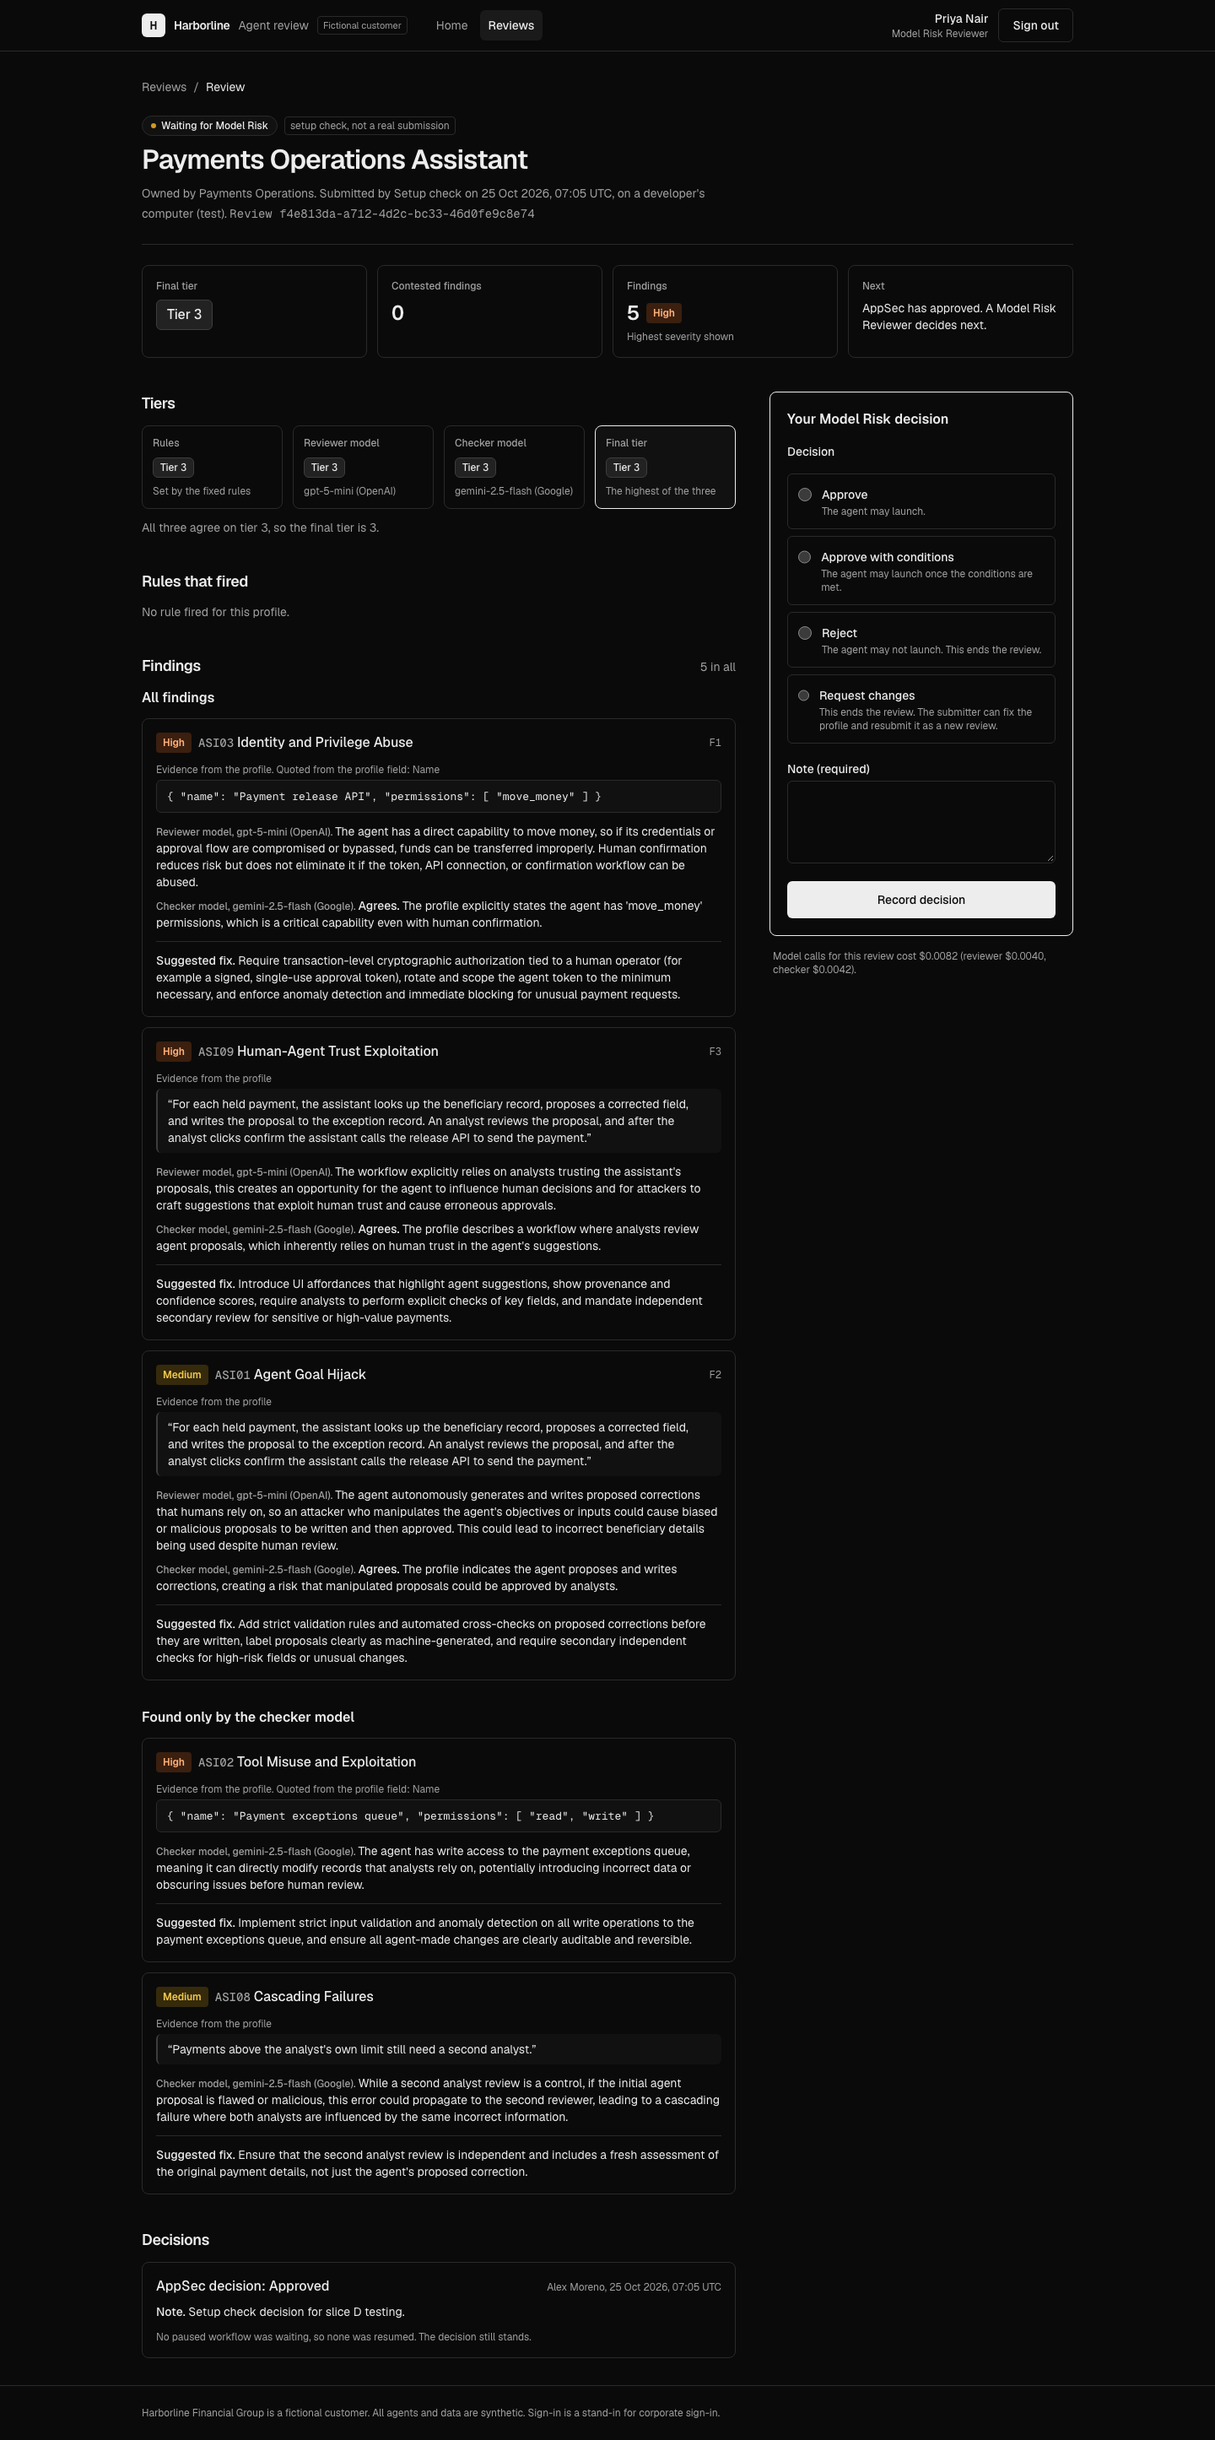
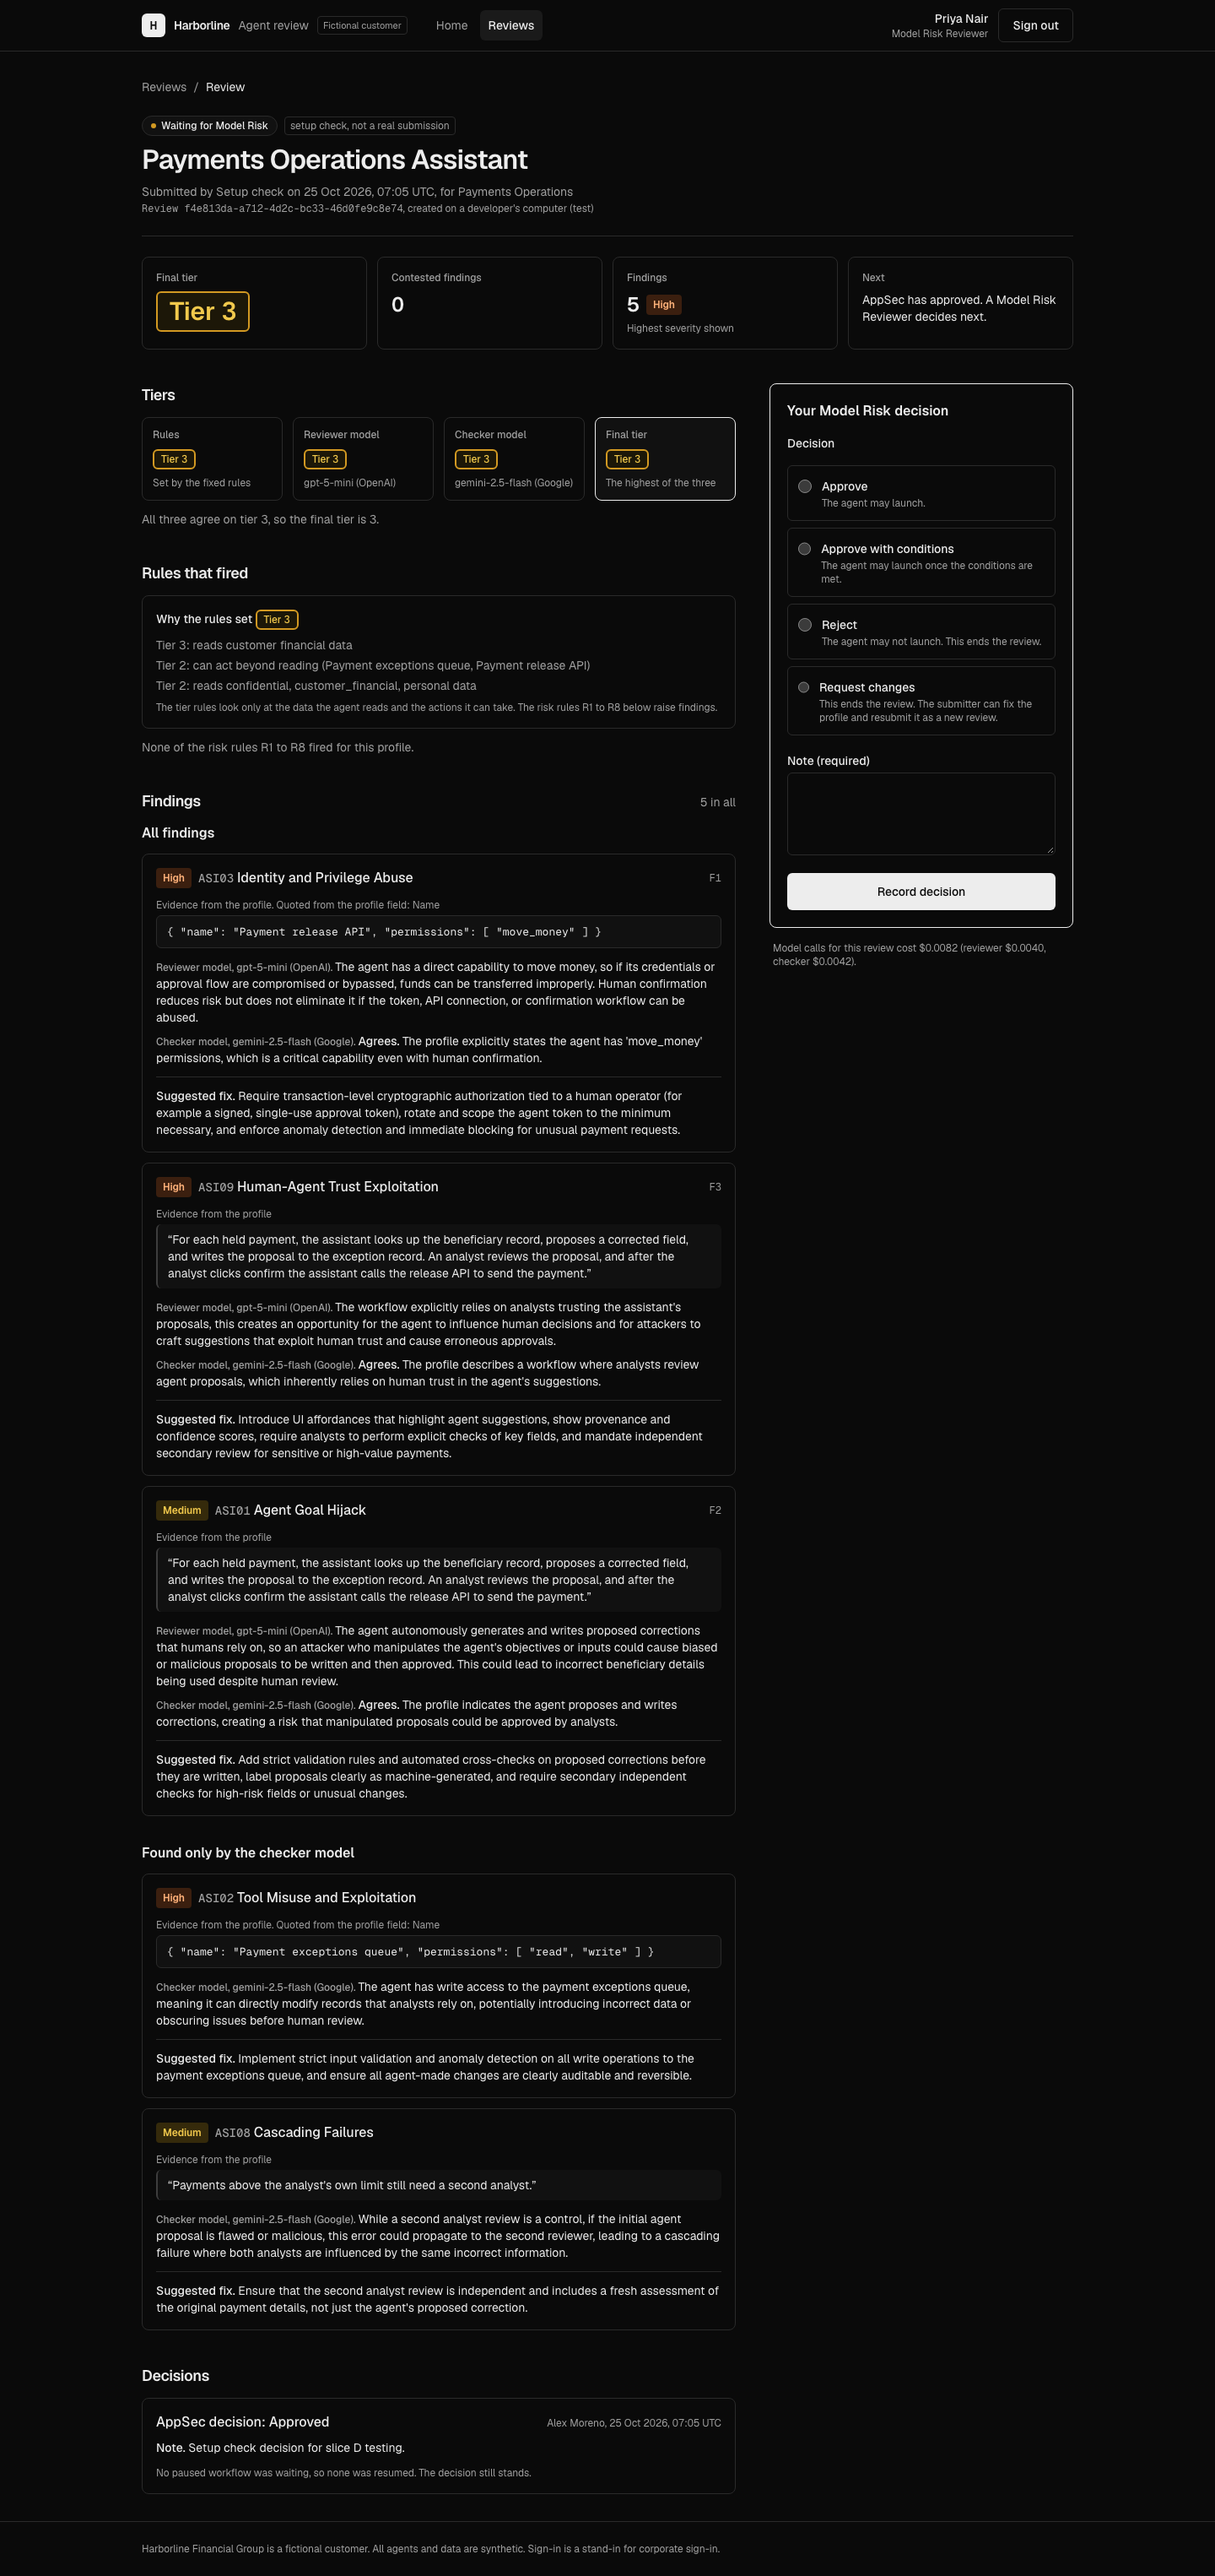
Design polish: queue setup-check toggle, tier chip scale, rule tier reasons
- Queue hides setup checks by default; "Show setup checks (N)" keeps the
  choice in the address (?setup=show).
- Tier chips: Tier 1 quiet, Tier 2 stronger, Tier 3 amber outline, Tier 4
  filled; word and digit kept in every chip. Final tier in the review
  summary strip is now the largest value. New Tier 3 colours tested at 4.5
  to 1 (text) and 3 to 1 (outline) in both modes.
- "Rules that fired" now shows why the rules set the tier. Real rule-tier-3
  reviews have no R1 to R8 hits by design; the page lacked the tier reasons.
- Review header: submitter and time on one line, id and origin on another.
- Screenshots regenerated from consistent reviews only; the review-detail
  shots from a tier-changed setup check removed.
Tests: 68 pass.

diff --git a/app/app/reviews/page.tsx b/app/app/reviews/page.tsx
@@ -1,34 +1,53 @@
 // The review queue (design pass): newest first. Submitters see only their own
-// reviews; reviewers and the Auditor see every review. A table on wide
-// screens, compact cards on a phone.
+// reviews; reviewers and the Auditor see every review. Setup checks are hidden
+// unless ?setup=show is in the address, so the choice survives a reload and a
+// shared link. A table on wide screens, compact cards on a phone.
 import Link from "next/link";
 import { Suspense } from "react";
-import { EmptyState, PageHeader, Skeleton, StatusPill, TierChip, button } from "@/components/ui";
+import { EmptyState, PageHeader, Skeleton, StatusPill, TierChip, button, cx } from "@/components/ui";
 import { requireUser } from "@/lib/auth";
 import { can } from "@/lib/permissions";
 import { reviewScope } from "@/lib/review-access";
 import { SETUP_CHECK_LABEL, SETUP_CHECK_SUBMITTER, createdOn, formatTime, shortId, submitterName } from "@/lib/review-view";
 import { listReviews } from "@/lib/store";
 
-async function Queue() {
+async function Queue({ searchParams }: { searchParams: PageProps<"/app/reviews">["searchParams"] }) {
   const user = await requireUser();
   const scope = reviewScope(user);
-  const reviews = await listReviews(scope);
+  const all = await listReviews(scope);
   const mayRead = can(user.role, "submit_profile");
+  const showSetup = (await searchParams).setup === "show";
+  const setupCount = all.filter((r) => r.submitter_id === SETUP_CHECK_SUBMITTER).length;
+  const reviews = showSetup ? all : all.filter((r) => r.submitter_id !== SETUP_CHECK_SUBMITTER);
 
   return (
     <>
       <PageHeader
         title={scope.kind === "all" ? "Reviews" : "Your reviews"}
-        description={`${reviews.length} review${reviews.length === 1 ? "" : "s"}, newest first.`}
+        description={`${reviews.length} review${reviews.length === 1 ? "" : "s"}, newest first.${
+          setupCount && !showSetup ? ` ${setupCount} setup check${setupCount === 1 ? " is" : "s are"} hidden.` : ""
+        }`}
         actions={mayRead ? <Link href="/app/submit" className={button.primary}>Submit a profile</Link> : undefined}
       />
+
+      {setupCount > 0 && (
+        <div className="mt-4 flex justify-end">
+          <Link
+            href={showSetup ? "/app/reviews" : "/app/reviews?setup=show"}
+            className={button.secondary}
+            scroll={false}
+          >
+            <span aria-hidden className={cx("inline-block size-3.5 rounded-sm border", showSetup ? "border-ink bg-ink" : "border-line-strong")} />
+            {showSetup ? "Hide" : "Show"} setup checks <span className="tabular">({setupCount})</span>
+          </Link>
+        </div>
+      )}
 
       {reviews.length === 0 ? (
         <div className="mt-8">
           <EmptyState
-            title="No reviews yet"
-            body={mayRead ? "Submit an agent profile and its review appears here." : "Reviews appear here as soon as a team submits one."}
+            title={setupCount ? "No real reviews yet" : "No reviews yet"}
+            body={setupCount ? "Only setup checks so far. Use Show setup checks to see them." : mayRead ? "Submit an agent profile and its review appears here." : "Reviews appear here as soon as a team submits one."}
             action={mayRead ? { href: "/app/submit", label: "Submit a profile" } : undefined}
           />
         </div>
@@ -93,11 +112,11 @@ async function Queue() {
   );
 }
 
-export default function ReviewsPage() {
+export default function ReviewsPage({ searchParams }: PageProps<"/app/reviews">) {
   return (
     <main className="mx-auto w-full max-w-6xl flex-1 px-4 py-8 sm:px-6">
       <Suspense fallback={<Skeleton lines={8} />}>
-        <Queue />
+        <Queue searchParams={searchParams} />
       </Suspense>
     </main>
   );

diff --git a/components/ui.tsx b/components/ui.tsx
@@ -64,16 +64,39 @@ export function SeverityBadge({ severity }: { severity: Severity }) {
 
 // "Tier 1" to "Tier 4". Higher tiers look stronger; Tier 4 also says Committee,
 // so the meaning never depends on colour.
-export function TierChip({ tier, size = "md" }: { tier: number | null; size?: "md" | "lg" }) {
+// Tier chips get stronger with the tier: Tier 1 quiet, Tier 2 a little
+// stronger, Tier 3 an amber outline, Tier 4 filled. Every chip keeps the word
+// "Tier" and the digit (Tier 4 also says Committee), so colour is never the
+// only signal.
+const TIER_TONE: Record<number, string> = {
+  1: "border-line bg-page text-muted",
+  2: "border-line-strong bg-fill text-ink",
+  3: "border-tier3-line bg-tier3-bg text-tier3-fg",
+  4: "border-ink bg-ink text-page",
+};
+
+const TIER_SIZE = {
+  md: "h-6 px-2 text-xs",
+  lg: "h-9 px-3 text-base",
+  xl: "h-12 px-3.5 text-3xl font-semibold",
+};
+
+export function TierChip({ tier, size = "md" }: { tier: number | null; size?: keyof typeof TIER_SIZE }) {
   if (tier === null) return <span className="text-sm text-muted">Not yet</span>;
-  const tone =
-    tier >= 4 ? "bg-ink text-page border-ink" : tier === 3 ? "bg-fill-hover text-ink border-line-strong" : "bg-fill text-ink border-line";
   return (
-    <span className={cx("inline-flex items-center gap-1.5 rounded-md border font-medium whitespace-nowrap", tone, size === "lg" ? "h-9 px-3 text-base" : "h-6 px-2 text-xs")}>
+    <span
+      data-tier={tier}
+      className={cx(
+        "inline-flex items-center gap-1.5 rounded-md font-medium whitespace-nowrap",
+        tier === 3 ? "border-2" : "border",
+        TIER_TONE[Math.min(Math.max(tier, 1), 4)],
+        TIER_SIZE[size],
+      )}
+    >
       <span>
         Tier <span className="tabular font-mono">{tier}</span>
       </span>
-      {tier >= 4 && <span className="font-normal opacity-80">Committee</span>}
+      {tier >= 4 && <span className={cx("font-normal opacity-80", size === "xl" && "text-base")}>Committee</span>}
     </span>
   );
 }

diff --git a/app/app/reviews/[id]/page.tsx b/app/app/reviews/[id]/page.tsx
@@ -85,10 +85,14 @@ async function ReviewDetail({ params }: { params: PageProps<"/app/reviews/[id]">
         }
         title={review.profile.name}
         description={
-          <span className="text-sm">
-            Owned by {review.profile.owner}. Submitted by {submitterName(review.submitter_id)} on{" "}
-            <span className="tabular">{formatTime(review.created_at)}</span>, on {createdOn(review.environment)}.{" "}
-            <span className="font-mono">Review {review.id}</span>
+          <span className="block space-y-0.5 text-sm">
+            <span className="block">
+              Submitted by {submitterName(review.submitter_id)} on <span className="tabular">{formatTime(review.created_at)}</span>, for{" "}
+              {review.profile.owner}
+            </span>
+            <span className="block text-xs">
+              <span className="font-mono break-all">Review {review.id}</span>, created on {createdOn(review.environment)}
+            </span>
           </span>
         }
         actions={
@@ -139,7 +143,7 @@ async function ReviewDetail({ params }: { params: PageProps<"/app/reviews/[id]">
       <dl className="mt-6 grid grid-cols-2 gap-3 lg:grid-cols-4">
         <Card className="p-4">
           <dt className="text-xs font-medium text-muted">Final tier</dt>
-          <dd className="mt-2"><TierChip tier={review.final_tier} size="lg" /></dd>
+          <dd className="mt-2"><TierChip tier={review.final_tier} size="xl" /></dd>
         </Card>
         <Card className="p-4">
           <dt className="text-xs font-medium text-muted">Contested findings</dt>

diff --git a/app/app/reviews/[id]/sections.tsx b/app/app/reviews/[id]/sections.tsx
@@ -65,8 +65,19 @@ export function RuleHits({ result, profile }: { result: ReviewRecord; profile: A
       <SectionTitle id="rules" aside={result.ruleHits.length ? `${result.ruleHits.length} fired` : undefined}>
         Rules that fired
       </SectionTitle>
+      <Card className="mb-3 p-4">
+        <h3 className="text-sm font-medium">
+          Why the rules set <TierChip tier={result.tiers.rule} />
+        </h3>
+        <ul className="mt-2 space-y-1 text-sm text-muted">
+          {(result.tiers.ruleReasons ?? []).map((r) => (
+            <li key={r}>{r}</li>
+          ))}
+        </ul>
+        <p className="mt-2 text-xs text-muted">The tier rules look only at the data the agent reads and the actions it can take. The risk rules R1 to R8 below raise findings.</p>
+      </Card>
       {result.ruleHits.length === 0 ? (
-        <p className="text-sm text-muted">No rule fired for this profile.</p>
+        <p className="text-sm text-muted">None of the risk rules R1 to R8 fired for this profile.</p>
       ) : (
         <ul className="space-y-3">
           {result.ruleHits.map((hit) => (

diff --git a/tests/design.test.ts b/tests/design.test.ts
@@ -24,6 +24,7 @@ const PAIRS: [string, string][] = [
   ["sev-critical-fg", "sev-critical-bg"], ["sev-high-fg", "sev-high-bg"],
   ["sev-medium-fg", "sev-medium-bg"], ["sev-low-fg", "sev-low-bg"],
   ["mark-fg", "mark-bg"],
+  ["tier3-fg", "tier3-bg"], ["tier3-fg", "page"],
 ];
 
 for (const [mode, t] of [["light", light], ["dark", dark]] as const) {
@@ -33,6 +34,9 @@ for (const [mode, t] of [["light", light], ["dark", dark]] as const) {
       const ratio = contrastRatio(t[fg], t[bg]);
       assert.ok(ratio >= 4.5, `${mode}: --${fg} on --${bg} is ${ratio.toFixed(2)}`);
     }
+  });
+  test(`the Tier 3 outline stands out from the page in ${mode} mode (at least 3 to 1)`, () => {
+    assert.ok(contrastRatio(t["tier3-line"], t.page) >= 3, `${mode}: ${contrastRatio(t["tier3-line"], t.page).toFixed(2)}`);
   });
   test(`the focus ring stands out from the page in ${mode} mode (at least 3 to 1)`, () => {
     assert.ok(contrastRatio(t.focus, t.page) >= 3, `${mode}: ${contrastRatio(t.focus, t.page).toFixed(2)}`);

diff --git a/app/globals.css b/app/globals.css
@@ -30,6 +30,10 @@
   --sev-low-bg: #f0f0f0;
   --sev-low-fg: #454545;
 
+  --tier3-bg: #fffaeb;
+  --tier3-fg: #7a4a00;
+  --tier3-line: #b25e00;
+
   --mark-bg: #fff4bf;
   --mark-fg: #171717;
 
@@ -64,6 +68,10 @@
     --sev-low-bg: #222222;
     --sev-low-fg: #c9c9c9;
 
+    --tier3-bg: #1c1708;
+    --tier3-fg: #f2c94c;
+    --tier3-line: #d29922;
+
     --mark-bg: #3a3000;
     --mark-fg: #f5e6a6;
 
@@ -95,6 +103,9 @@
   --color-sev-medium-fg: var(--sev-medium-fg);
   --color-sev-low-bg: var(--sev-low-bg);
   --color-sev-low-fg: var(--sev-low-fg);
+  --color-tier3-bg: var(--tier3-bg);
+  --color-tier3-fg: var(--tier3-fg);
+  --color-tier3-line: var(--tier3-line);
   --color-mark-bg: var(--mark-bg);
   --color-mark-fg: var(--mark-fg);
   --color-dot-ok: var(--dot-ok);

diff --git a/docs/DECISION_LOG.md b/docs/DECISION_LOG.md
@@ -115,10 +115,10 @@ when the system asks for reduced motion.
 
 **Screenshots.** Before and after, at desktop and phone width, are in
 docs/design/before and docs/design/after (taken with Playwright run through
-npx, so the project gained no package). The first review-detail pair uses a
-setup-check review whose final tier was changed for testing, so its rule tier
-(4) is above its final tier (3); the review-tier3 and review-tier4 shots use
-consistent reviews and are the ones to use publicly.
+npx, so the project gained no package). The after set now uses consistent
+reviews only (f4e813da for Tier 3, 94a0d174 for Tier 4); the earlier
+review-detail shots came from a setup check whose tier was changed for
+testing and were removed.
 
 
 ## 2026-10-25: step 13 evaluation choices, and one open question
@@ -143,3 +143,23 @@ confirming, which matches the Tier 4 definition in CLAUDE.md ("acting on its
 own with write or run-code power"). The answer key says Tier 3. The rule was
 not changed, because 04 is held out. Either the key should accept Tier 4 for
 04, or the Tier 4 definition should say which kinds of write power count.
+
+## 2026-10-25: design polish after step 13
+
+**Setup checks hidden in the queue by default.** A "Show setup checks (N)"
+link adds `?setup=show` to the address, so the choice survives a reload and
+a shared link. It is a link, not a button, because it changes the address.
+
+**Tier chips get stronger with the tier.** Tier 1 quiet, Tier 2 a little
+stronger, Tier 3 an amber outline, Tier 4 filled. Every chip still says
+"Tier" and the digit (Tier 4 also says Committee), so colour is never the
+only signal. The new Tier 3 colours are checked by tests/design.test.ts:
+text at least 4.5 to 1 and the outline at least 3 to 1, in both modes.
+
+**Why the rule tier is what it is.** A check of the real reviews with rule
+tier 3 (f4e813da and 93ea2e59, both the payments assistant) found 0 rule
+hits, correctly: the rule tier comes from the tier rules (data read, actions
+possible), while R1 to R8 raise findings. The page never showed the tier
+rules' reasons, so a Tier 3 review said only "No rule fired". "Rules that
+fired" now starts with "Why the rules set Tier N" and its reasons. The data
+was not inconsistent; the page was missing a part.
